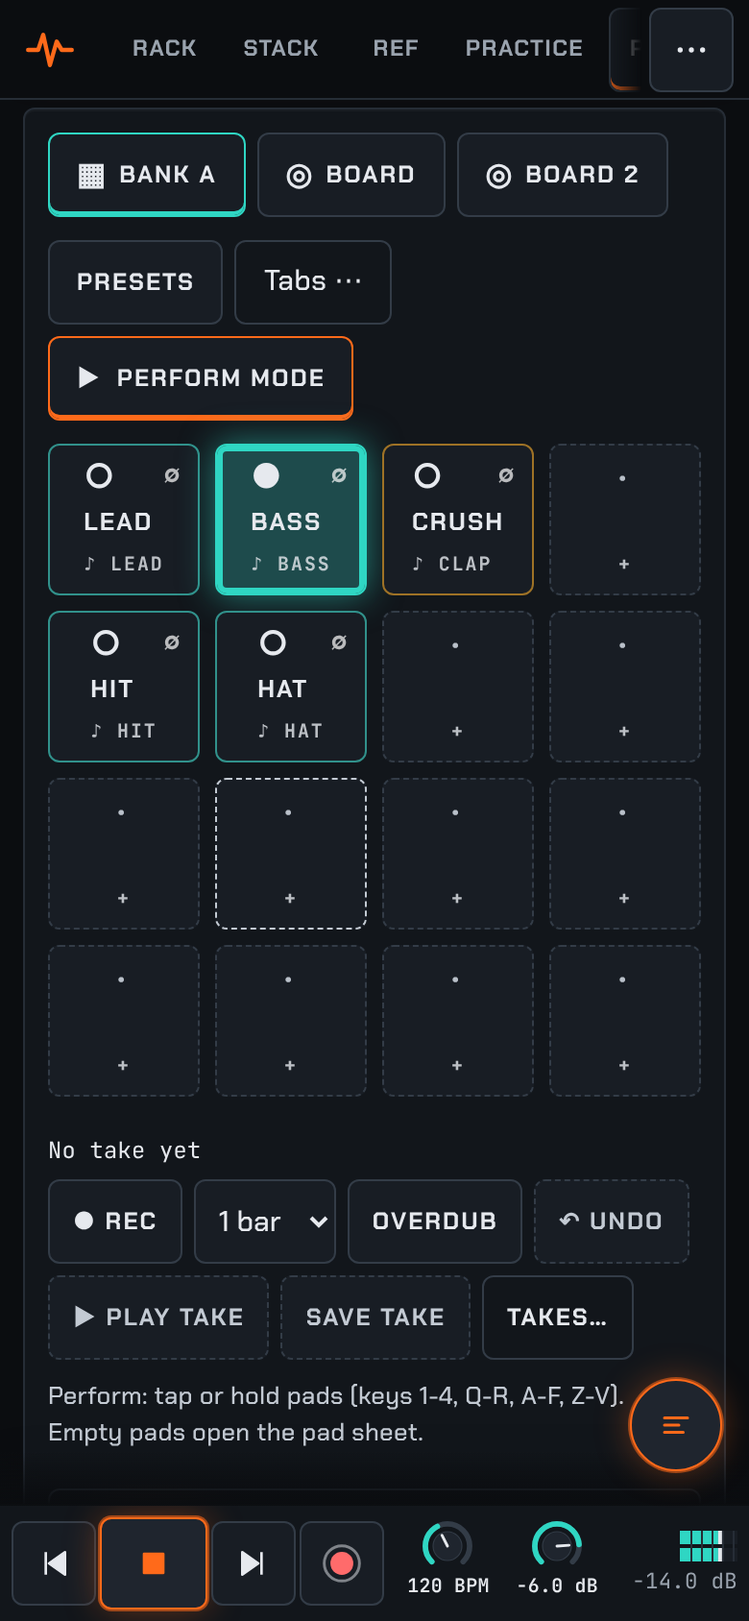
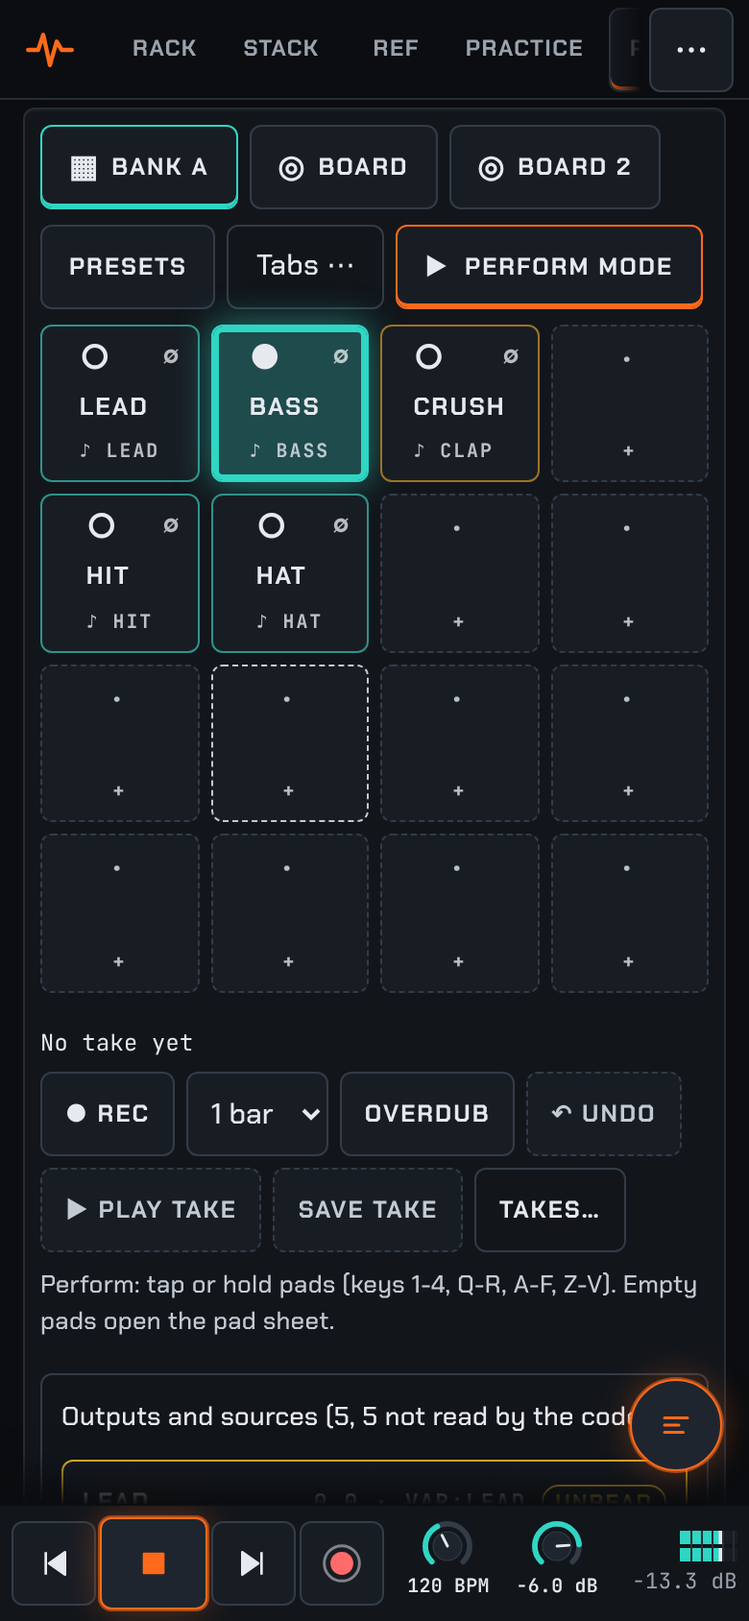
Perform: no toast over pads (status in the Presets button), pad-first phone layout, bare tap("x") reads its pad live (gain/mask/trigger), one tap description everywhere; tests perform_layout, perform_reader_audio, hooks/pad_reader. Refs #118 #114
Claude-Session: https://claude.ai/code/session_01Tu9yF1Ta77zUw7h4fxzQMi

diff --git a/site/perform.js b/site/perform.js
@@ -87,10 +87,16 @@ function toHooks(e) {
   if (e.op === 'bind' && e.args.slot) return { ...b, op: 'bind', args: [e.args.slot, e.args.hook] };
   if (e.op === 'unbind' && e.args.slot) return { ...b, op: 'unbind', args: [e.args.slot] };
   if (e.op === 'let' && e.args.value !== undefined) return { ...b, op: 'let', args: [e.args.name, e.args.value] };
+  if (e.op === 'tap' || e.op === 'tap-end') { // bare tap("x") readers: held windows by ref; shifted by the scheduler lookahead live, or the onset is already in the past
+    const lead = !playing() ? 0 : PAD_LEAD_S * padCps();
+    return { ...b, cycle: lead ? T.toFrac(frac(e.cycle) + lead) : e.cycle, op: 'pad:' + e.op, args: [e.target.ref] };
+  }
   return { ...b, op: 'pad:' + e.op, args: [] };
 }
+const PAD_LEAD_S = 0.3; const padCps = () => { try { return sc.engineState().scheduler.cps || 0.5; } catch (e) { return 0.5; } };
 function bridge(j = sc.perform && sc.perform.journal) {
   const H = sc.hooks; if (!H || !j) return;
+  H.padRefs = new Set(Object.values(M.banks).flatMap((b) => b.pads).filter((p) => p.target && p.target.kind === 'tap').map((p) => p.target.ref));
   const keep = H.journal.filter((e) => !e.pad); H.journal.length = 0; H.journal.push(...keep, ...j.map(toHooks));
   try { H.undef('__scPerformTouch'); } catch (e) { /* invalidates the runtime's journal cache */ }
 }
@@ -563,6 +569,8 @@ const allPresets = () => [...BUILTIN, ...PP.store.list()];
 const clone = (x) => JSON.parse(JSON.stringify(x));
 const codeTexts = () => [['rack', 'code'], ['stack', 'stackCode']].map(([view, id]) => ({ view, id, text: (document.getElementById(id) || {}).value || '' }));
 function upsertTab(kind, id, name) { const i = M.tabs.findIndex((t) => t.kind === kind && t.id === id); if (i >= 0) { M.tabs[i].name = name; return i; } M.tabs.push({ kind, id, name }); return M.tabs.length - 1; }
+const presetLabel = () => { const p = M.preset && allPresets().find((x) => x.id === M.preset); return p ? 'Presets: ' + p.title : 'Presets'; };
+const announce = (m) => { let r = document.getElementById('pfLive'); if (!r) { r = h('p', { id: 'pfLive', class: 'sr', role: 'status', 'aria-live': 'polite' }); document.body.append(r); } r.textContent = ''; setTimeout(() => { r.textContent = m; }, 30); };
 function applyPreset(p) {
   const bad = PP.validate(p); if (bad) { ui().toast('Preset: ' + bad, { kind: 'error' }); return false; }
   let first = null;
@@ -578,7 +586,7 @@ function applyPreset(p) {
   if (p.bank) { const id = 'pb-' + p.id; M.banks[id] = { id, rows: p.bank.rows, cols: p.bank.cols, ...(p.bank.scenes ? { scenes: p.bank.scenes } : {}), pads: clone(p.bank.pads || []) }; first = upsertTab('bank', id, p.title); }
   if (p.keys) M.keys = { ...p.keys }; else delete M.keys;
   M.takeover = p.takeover || 'pickup'; CM.pads.settings.takeover = M.takeover; if (p.perform != null) M.perform = !!p.perform; M.preset = p.id;
-  rebuildPads(); select(first, false); ui().toast(`Preset applied: ${p.title}`, { kind: 'ok' }); return true;
+  rebuildPads(); select(first, false); announce(`Preset applied: ${p.title}`); return true; // status lives in the Presets button + a live region: a toast sat over pad row 1 (#118)
 }
 function snapshot(title) { // the current configuration as a preset (first-class: same shape as the built-ins)
   const t = curTab(); const bank = t.kind === 'bank' ? M.banks[t.id] : M.banks[(M.tabs.find((x) => x.kind === 'bank') || {}).id];
@@ -677,7 +685,7 @@ function render() {
   strip.addEventListener('click', (e) => { const b = e.target.closest('[role=tab]'); if (b) select(+b.dataset.i); });
   strip.addEventListener('keydown', (e) => { const d = { ArrowRight: 1, ArrowLeft: -1 }[e.key]; if (e.key === 'Home' || e.key === 'End') { e.preventDefault(); select(e.key === 'Home' ? 0 : M.tabs.length - 1, true); return; } if (!d) return; e.preventDefault(); e.stopPropagation(); if (e.altKey) move(d); else { const i0 = +(e.target.closest('[role=tab]')?.dataset.i ?? M.active); select((i0 + d + M.tabs.length) % M.tabs.length, true); } });
   const bank = t.kind === 'bank' ? M.banks[t.id] : null;
-  const tools = h('div', { class: 'pf-tools' }, h('button', { type: 'button', class: 'pf-presets', id: 'pfPresetBtn', 'aria-haspopup': 'dialog', onclick: () => openPresets() }, 'Presets'), h('details', { class: 'pf-more' }, h('summary', {}, 'Tabs ⋯'), h('div', { class: 'pf-menu' },
+  const tools = h('div', { class: 'pf-tools' }, h('button', { type: 'button', class: 'pf-presets', id: 'pfPresetBtn', 'aria-haspopup': 'dialog', onclick: () => openPresets() }, presetLabel()), h('details', { class: 'pf-more' }, h('summary', {}, 'Tabs ⋯'), h('div', { class: 'pf-menu' },
     h('button', { type: 'button', class: 'ghost', onclick: () => addTab('bank') }, '+ Bank'), h('button', { type: 'button', class: 'ghost', onclick: () => addTab('board') }, '+ Board'),
     h('button', { type: 'button', class: 'ghost', onclick: renameTab }, 'Rename'), h('button', { type: 'button', class: 'ghost', onclick: dupTab }, 'Duplicate'),
     h('button', { type: 'button', class: 'ghost', 'aria-label': 'Move tab left', onclick: () => move(-1) }, '◀'), h('button', { type: 'button', class: 'ghost', 'aria-label': 'Move tab right', onclick: () => move(1) }, '▶'),

diff --git a/site/hooks-intellisense.js b/site/hooks-intellisense.js
@@ -3,13 +3,13 @@
    taps, vars, instances) and the component library. Re-registering the same id is the registry's cache-bust; done on every code/library change.
    Manifest source: window.strudelCraft.hooks.manifest() when the hooks runtime provides it, else model.parse() of the editor text. */
 const METHODS = [['use', '.use(slot)', 'Run the hook bound to a slot (bypass while unbound or closed).'], ['hook', '.hook(expr)', 'Apply a hook expression in place, always on: .hook("hygiene-pad") scopes the band of a pad (docs/RACK_STANDARD.md). Racks start with ["hook", "hygiene-<class>"].'], ['wrap', '.wrap(slot)', 'Wrap the pattern in the hook bound to a slot.'],
-  ['tap', '.tap(name, { export })', 'Publish this pattern as a named tap (memoised: readers share one computation). Inside a lane it is lane/name; { export: true } lets other lanes read it.'], ['wire', '.wire(control, ref, opts?)', 'Drive a control from a tap (ref "tap:facet") or from the audio of a named bus (ref "bus:name": bmod, cutoff = base + (signal + dc) x depthabs / 0.3; opts depth = multiple of the current value, depthabs = absolute, dc, subControl; a slow LFO is a sine with .freq(0.25), note("c1") is audio rate).'], ['ns', '.ns(name)', 'Namespace this track\'s slots and taps.'],
+  ['tap', '.tap(name, { export })', 'WRITE: publish this pattern as a named tap (memoised: readers share one computation); it never reads a Perform pad (that is the function tap(name)). Inside a lane it is lane/name; { export: true } lets other lanes read it.'], ['wire', '.wire(control, ref, opts?)', 'Drive a control from a tap (ref "tap:facet") or from the audio of a named bus (ref "bus:name": bmod, cutoff = base + (signal + dc) x depthabs / 0.3; opts depth = multiple of the current value, depthabs = absolute, dc, subControl; a slow LFO is a sine with .freq(0.25), note("c1") is audio rate).'], ['ns', '.ns(name)', 'Namespace this track\'s slots and taps.'],
   ['tags', '.tags(tag, ...)', 'Tag every event of this lane (same as chained .tag(t)); select them with tagged().'], ['fx', '.fx(fn)', 'On a tagged() selection: apply fn to the matching events of every lane.'],
   ['mute', '.mute(gate?)', 'On a tagged() selection: drop the matching events (inside the gate, e.g. "3b..5b").'], ['solo', '.solo(gate?)', 'On a tagged() selection: keep only matching events; several solo() selections add up.'],
   ['split', '.split(x => x.fx(), y => y.fx(), ..., { mix, pre })', 'Parallel effects on ONE render of everything before it (no re-triggered voices): each branch is x => x.effect(...) on a bus reader; branches may add effects, gain, pan, orbit and structure (struct = a rhythmic gate), not s, n, note, freq, bus, dry. Effects act on the lane sum, not per note. Options: mix [postgains], pre true keeps the dry path. A .layer costs one voice per note per branch; a split costs one reader per branch.'],
   ['merge', '.merge(m => m.fx())', 'After .split: sum the branches on one bus and apply m and everything written after it to that sum (a true sum bus). Without .merge, effects written after the split are added to each branch separately (W_LANE_POST_SPLIT for shape, crush, compressor ...).'],
   ['send', '.send(name, amount?)', 'Send this lane to the named bus (amount 0..1, default 1); play it with ret(name). Also tagged(sel).send(name, amount). A send with no return is W_BUS_NO_RETURN.']];
-const FUNCS = [['tap', 'tap(name)'], ['tagged', 'tagged(selector)'], ['ret', 'ret(name)'], ['lanes.closed', 'lanes.closed()'], ['lanes.open', 'lanes.open()'], ['hooks.def', 'hooks.def(name, manifest)'], ['hooks.undef', 'hooks.undef(name)'], ['hooks.bind', 'hooks.bind(slot, hook, gate?)'],
+const FUNCS = [['tap', 'tap(name)', 'READ a tap: tap("kick") / tap("kick:env"). The lane that published it with .tap("kick") is the source; with no publisher it reads the Perform pad "kick" (1 while held, no events idle). The writer is the method .tap(name), not this function.'], ['tagged', 'tagged(selector)'], ['ret', 'ret(name)'], ['lanes.closed', 'lanes.closed()'], ['lanes.open', 'lanes.open()'], ['hooks.def', 'hooks.def(name, manifest)'], ['hooks.undef', 'hooks.undef(name)'], ['hooks.bind', 'hooks.bind(slot, hook, gate?)'],
   ['hooks.replace', 'hooks.replace(slot, hook, when?)'], ['hooks.load', 'hooks.load(json)'], ['hooks.inst', 'hooks.inst(component, { as, args?, gate?, remap? })']];
 const GATES = [['"@17b"', 'at bar 17'], ['"<17b"', 'until bar 17'], ['"9b..17b"', 'bars 9 to 17']];
 const FACETS = ['onset', 'gate', 'env'];
@@ -19,7 +19,7 @@ const range = (p) => Object.entries(p || {}).map(([k, v]) => `${k}: ${v.min ?? '
 export function staticItems() {
   return [
     ...METHODS.map(([label, detail, info]) => ({ label, method: true, category: 'hooks', detail, info })),
-    ...FUNCS.map(([label, detail]) => ({ label, category: 'hooks', detail, info: detail })),
+    ...FUNCS.map(([label, detail, info]) => ({ label, category: 'hooks', detail, info: info || detail })),
     ...GATES.map(([label, info]) => ({ label: label.replace(/"/g, ''), string: true, category: 'gates', detail: 'gate', info, apply: label.replace(/"/g, '') })),
   ];
 }

diff --git a/site/engine/hooks.js b/site/engine/hooks.js
@@ -593,7 +593,7 @@ export function install(S, opts = {}) {
       const def = !P.sel && defOf(P.name);
       if (def?.params && facet in def.params) { const v = paramTimeline(P.name, facet, t, cx); return isPatternValue(v) ? first(valuePattern(v).queryArc(t, t, ctrl))?.value : v; }
       if (def?.taps && facet in def.taps) return first(makeTap(def.taps[facet], o).queryArc(t, t, ctrl))?.value ?? o.default;
-      const T = lookupTap(P, ctrl?._hookNs, ctrl?.id);
+      const T = lookupTap(P, ctrl?._hookNs, ctrl?.id) || (!P.sel && padSource(P.name));
       if (!T) { note('error', 'E_UNKNOWN_TAP', `no tap "${P.name}" for read "${key}"`); return o.default; }
       if (facet === 'gate') return T.queryArc(t, t, ctrl).length ? 1 : 0;
       const on = latestOnset(T, t, o.lookback ?? 4, ctrl);
@@ -609,6 +609,33 @@ export function install(S, opts = {}) {
       return v === undefined ? o.default : v;
     }, () => o.default);
   }
+  // ---------------- pad taps: a bare tap("x") with no publisher reads the Perform pad "x" (docs/PERFORM_PRESETS.md 3) ----------------
+  // Journal entries `pad:tap` [ref] on press and `pad:tap-end` [ref] on release give exact held windows: 1 while held, no haps while idle. A
+  // published tap of the same name wins; hooks.padRefs (a Set of pad refs the host shows) makes an idle pad a silent reader instead of E_UNKNOWN_TAP.
+  const PAD_OPEN = -1; let padHap = null; // PAD_OPEN end = still held: the hap's whole ends one cycle after the press or at the next whole cycle past the queried span (never unbounded: structure-from-left joins query the whole)
+  function padWindows(name) {
+    const ev = hooks.journal.filter((e) => (e.op === 'pad:tap' || e.op === 'pad:tap-end') && (e.args || [])[0] === name).map((e, i) => ({ e, i }));
+    ev.sort((a, b) => F(a.e.cycle).compare(F(b.e.cycle)) || a.i - b.i);
+    const w = []; let open = null;
+    for (const { e } of ev) { if (e.op === 'pad:tap') { if (open === null) open = F(e.cycle); } else if (open !== null) { w.push([open, F(e.cycle)]); open = null; } }
+    if (open !== null) w.push([open, PAD_OPEN]);
+    return w;
+  }
+  const padKnown = (name) => !!(hooks.padRefs && hooks.padRefs.has(name)) || hooks.journal.some((e) => (e.op === 'pad:tap' || e.op === 'pad:tap-end') && (e.args || [])[0] === name);
+  function padSource(name) {
+    if (!padKnown(name)) return null;
+    if (!padHap) { const h0 = reify(1).queryArc(0, 1)[0]; padHap = { Hap: h0.constructor, Span: h0.part.constructor }; }
+    return new Pattern((state) => {
+      const b = state.span.begin, e = state.span.end; const out = [];
+      for (const [s, t0] of padWindows(name)) {
+        const t = t0 === PAD_OPEN ? F(Math.max(+s.add(1), Math.ceil(+e) + 0)) : t0;
+        const zero = b.equals ? b.equals(e) : +b === +e;
+        if (zero ? !(s.lte(b) && b.lt(t)) : !(s.lt(e) && t.gt(b))) continue;
+        out.push(new padHap.Hap(new padHap.Span(s, t), new padHap.Span(s.gt(b) ? s : b, t.lt(e) ? t : e), 1, {}));
+      }
+      return out;
+    });
+  }
   function makeTap(ref, o = {}) {
     const P = parseRef(ref); const facet = P.facet || 'ev'; const gateN = o.gate != null ? normGate(o.gate) : null;
     if (facet !== 'ev' && facet !== 'onset') { P.facet = facet; return signal((t, ctrl) => evalCont(P, o, F(t), ctrl, gateN) ?? 0); }
@@ -617,7 +644,7 @@ export function install(S, opts = {}) {
       const run = (sp) => guard(key, () => {
         const st = state.setSpan(sp);
         if (!P.sel && facet === 'ev' && (eff().vars.has(P.name))) return assignPattern(eff().vars.get(P.name), 'var:' + P.name).query(st);
-        const T = lookupTap(P, ctrl?._hookNs, ctrl?.id);
+        const T = lookupTap(P, ctrl?._hookNs, ctrl?.id) || (!P.sel && padSource(P.name));
         if (!T) { note('error', 'E_UNKNOWN_TAP', `no tap "${P.name}" for read "${key}"`); return []; }
         const haps = T.query(st); return facet === 'onset' ? haps.map((h) => h.withValue(() => 1)) : haps;
       }, () => []);

diff --git a/site/style.css b/site/style.css
@@ -341,10 +341,12 @@ dialog.scm{width:min(420px,calc(100vw - 24px))}
 .scm-acts{display:flex;gap:8px;justify-content:flex-end}.scm-acts button{min-height:44px;min-width:88px}
 .scm-ok.danger{color:var(--bad);border-color:var(--bad)}
 .toasts{position:fixed;left:50%;transform:translateX(-50%);bottom:calc(var(--tp,120px) + 12px + env(safe-area-inset-bottom));z-index:60;display:grid;gap:8px;width:min(420px,calc(100vw - 24px));pointer-events:none}
-.toast{pointer-events:auto;display:flex;align-items:center;gap:8px;padding:10px 8px 10px 14px;background:var(--panel-3);border:1px solid var(--line-2);border-left:3px solid var(--sig-2);border-radius:var(--r2);font-size:.86rem;box-shadow:0 8px 24px rgba(0,0,0,.4);animation:toastIn .18s var(--ease,ease-out)}
+.toast{pointer-events:none;display:flex;align-items:center;gap:8px;padding:10px 8px 10px 14px;background:var(--panel-3);border:1px solid var(--line-2);border-left:3px solid var(--sig-2);border-radius:var(--r2);font-size:.86rem;box-shadow:0 8px 24px rgba(0,0,0,.4);animation:toastIn .18s var(--ease,ease-out)}
 .toast span{flex:1}.toast.error{border-left-color:var(--bad)}.toast.ok{border-left-color:var(--ok)}
 .toast-x{min-width:44px;min-height:44px;border:0;background:transparent;color:var(--dim);font-size:1.2rem}
 .toast.out{opacity:0;transition:opacity .2s}
+/* only toasts a person must act on take pointer events; status toasts never swallow a tap (#118) */
+.toast.error,.toast.sticky,.toast.act{pointer-events:auto}.toast:not(.error):not(.sticky):not(.act) .toast-x{display:none}
 @keyframes toastIn{from{opacity:0;transform:translateY(8px)}}
 @media (prefers-reduced-motion:reduce){.toast{animation:none}}
 .scm-ok:not(.danger){background:var(--sig-2);color:var(--sig-ink,#000);border-color:var(--sig-2)}

diff --git a/site/perform.css b/site/perform.css
@@ -128,3 +128,20 @@
 .pf-graph-glow{outline:2px solid var(--sig-2);outline-offset:2px}
 @media (prefers-reduced-motion:no-preference){.pf-graph-glow{transition:outline-color .2s}}
 .pp-pad .pp-ref{color:var(--text)}.pp-orph{position:absolute;top:6px;right:8px;font-size:.8rem;opacity:.7}
+
+/* pad-first phone layout (#118): in Perform the pad grid is the first thing under the header and fits on screen without scrolling.
+   The stage keeps its title/readouts/scope as a slim strip; the lanes canvas and the position/loop row (all still in the other views) fold away, and the
+   tabs + Presets + mode controls share compact rows. Outputs and sources, looper and hint sit below the grid. */
+@media (max-width:760px){
+  .deck[data-view="perform"] .stage .lanes,.deck[data-view="perform"] .stage .trange{display:none}
+  .deck[data-view="perform"] .stage .viz{height:36px}
+  .deck[data-view="perform"] .stage-head{padding:6px 12px 2px}
+  .deck[data-view="perform"] .stage-head h1{font-size:1rem;margin:0}
+  .deck[data-view="perform"] .stage{position:static}
+  .perform{padding:8px;gap:8px}
+  .perform>*,.pf-body{min-width:0}
+  .pf-presets{max-width:100%;overflow:hidden;text-overflow:ellipsis;white-space:nowrap}
+  .pf-tools{gap:6px}
+  .pf-body{gap:8px}
+  .pp-grid{gap:6px}.pp-row{gap:6px}
+}

diff --git a/site/ui.js b/site/ui.js
@@ -39,7 +39,7 @@
   let stack = null;
   function toast(message, { kind = 'info', ms, sticky = false, onClick = null } = {}) {
     if (!stack) { stack = h('div', { class: 'toasts', role: 'region', 'aria-label': 'Notifications' }); document.body.append(stack); }
-    const t = h('div', { class: 'toast ' + kind, role: kind === 'error' ? 'alert' : 'status' }, h('span', {}, String(message)), h('button', { type: 'button', class: 'toast-x', 'aria-label': 'Dismiss' }, '×'));
+    const t = h('div', { class: 'toast ' + kind + (sticky ? ' sticky' : '') + (onClick ? ' act' : ''), role: kind === 'error' ? 'alert' : 'status' }, h('span', {}, String(message)), h('button', { type: 'button', class: 'toast-x', 'aria-label': 'Dismiss' }, '×'));
     const kill = () => { t.classList.add('out'); setTimeout(() => t.remove(), 200); };
     t.querySelector('button').addEventListener('click', kill);
     if (onClick) { const sp = t.querySelector('span'); const b = h('button', { type: 'button', class: 'toast-act' }, String(message)); sp.replaceWith(b); b.addEventListener('click', () => { onClick(); kill(); }); }

diff --git a/docs/PERFORM_PRESETS.md b/docs/PERFORM_PRESETS.md
@@ -24,7 +24,7 @@ API: `strudelCraft.perform.presets.{list, apply(id|preset), save(title), exportJ
 
 ## 3. Outputs and sources
 Every pad and control of the open tab is an output row under `Outputs and sources`. Tap a row to reveal: the code line it reads or writes (pad: first match of `tap('x')`, `hooks.bind(slot, 'x')`, `hooks.let('x')`, `hooks.inst('x')`, else any quoted `'x'`; control: its site path), a one-line explanation, `Go to code` (the deliberate jump, #107) and `Show in graph` (the graph node with that label glows; the view switches to Graph when it is not open). Pressing a pad or revealing a row never scrolls the editor.
-- **The 2-hit output.** A tap pad (`kind: tap`, mode gate) is one hit = two journal entries: `tap` on press and `tap-end` on release, written to `hooks.journal` as `pad:tap`, `pad:tap-end`. The hooks runtime journals but does not apply them, and the editor holds no `tap("x")` unless you wrote one, so a tap pad nothing reads shows no syntax in Perform and did nothing audible while the graph still showed the program's drum nodes. Such pads are marked `∅` / `unread` and counted in the Outputs summary (no toast: a toast sat over the pad rows on a phone and swallowed taps). A reader is a bare `tap("x")` / `wire(..., "x")` call; the lane writer `.tap("kick", {export: true})` of night-phonk-demo publishes the lane and does not read pad presses. Give a pad a reader with `tap("x")` or bounce a take to code (`hooks.publish('x', ...)`); until then section 4 applies.
+- **The 2-hit output and the pad reader (#114, #118).** A tap pad (`kind: tap`, mode gate) is one hit = two journal entries: `tap` on press and `tap-end` on release, written to `hooks.journal` as `pad:tap` and `pad:tap-end` with the pad ref in `args[0]`. **Reading it:** a bare `tap("x")` (the function, not the method) whose name no `.tap("x")` publishes reads the pad `x` live: a hap with value `1` from the press to the release (still held = open window), no haps while idle. So `s("bd*4").mask(tap("kick"))`, `.gain(tap("kick"))` and `.struct(tap("kick"))` follow the hold, `tap("kick").s("bd")` sounds once per press, and `tap("kick:gate")` is 1/0. A published `.tap("kick", ...)` of the same name wins over the pad (the pad is then unread: night-phonk-demo). The scheduler has already queried the next ~0.3 s when a pad is pressed, so the journal cycle of a live press is shifted by 0.3 s (`PAD_LEAD_S`) and the trigger form sounds that much after the press; renders replay the journal exactly. **Not a reader:** the method `.tap("x", {export})` is the lane writer, it publishes the lane and never reads a pad. A pad nothing reads is marked `∅` / `unread` and counted in the Outputs summary (no toast: a toast sat over the pad rows on a phone and swallowed taps), and plays its audition voice (section 4). Test: `STRUDEL_CRAFT=$PWD node tests/hooks/pad_reader.mjs`, `node tests/site/perform_reader_audio.mjs` (idle 0, held > 0.01, released 0 for the gain, mask and trigger forms).
 
 ## 4. Audition voices (#116)
 A pad that nothing reads (the orphan rule of section 3: tap pads without a bare `tap("x")`, hook/var pads without a source line) plays a built-in **audition voice** the moment it is pressed, and is journaled exactly as before; a pad the program reads stays silent here (the reader wins, nothing existing changes).
@@ -33,3 +33,6 @@ A pad that nothing reads (the orphan rule of section 3: tap pads without a bare 
 - Pointer-down triggers (no scroll, no focus, #107 behaviour); the audio context is resumed inside that gesture and the Strudel engine is pre-loaded when a bank with such pads is shown, so the first tap sounds (a tap before the engine is up is queued, dropped after 4 s). The master bus is un-muted if Stop had muted it.
 - API: `strudelCraft.perform.audition` = `{ enabled, voices(), voiceFor(pad, index), player }` (`player.count/lat/error/ready`). Source: `site/perform-audition.js`.
 - Test: `node tests/site/perform_pads_audio.mjs` (touch taps at 390 px on the default demo and night-phonk-demo, every pad of Beatpad and Minimal must reach > 0.01 on the master analyser; cold first tap; a read pad stays silent). Mixer and Macro are control boards, they have no pads.
+
+## 5. Layout and status (#118)
+Applying a preset never toasts: the status is the Presets button label (`Presets: Beatpad 4x4`) plus a polite live region. Status toasts (`ok`, `info`) have `pointer-events:none` everywhere on the site; only errors, sticky and actionable toasts take pointer events. At 760 px and below the Perform view is pad-first: the stage keeps its title, readouts and a 36 px scope, the lanes canvas and the position/loop row fold away (they stay in the other views), so the 4x4 Beatpad (and Minimal) are fully above the transport at 390x844 and 360x740 with 44 px+ pads and no scrolling; Outputs and sources, the looper and the hint sit below the grid. Test: `node tests/site/perform_layout.mjs [--shots DIR]` (elementFromPoint on every pad centre right after each preset apply, no scroll).

diff --git a/site/README.md b/site/README.md
@@ -476,6 +476,7 @@ Standalone ES module, no DOM, shared with the CLI. `install(S, hooks, { outer })
 the Strudel `Pattern` and the hooks object) adds `Pattern.prototype.tags` and the globals `tagged` and `lanes`, refusing over an existing name (`E_NAME_COLLISION`).
 - Taps (in `hooks.js`): every tap has a 32-span query cache keyed by span and controls signature; cleared on registry change, a republished tap and `hooks.invalidate()`
   (the controls engine calls it from `set`, lane and `load` through its `onChange`). In a labelled lane `.tap("x")` is `lane/x`; `.tap("x", { export: true })` lets other lanes read it;
+- Pad reader (#118): a bare `tap("x")` with no `.tap("x")` publisher reads the Perform pad `x` (`pad:tap` / `pad:tap-end` journal entries, value 1 while held, nothing idle; `hooks.padRefs` set by perform.js); `.tap("x")` is only the writer. Perform on phones is pad-first (stage folds to a strip, grid above the transport at 390x844 and 360x740) and preset apply no longer toasts. Tests `tests/hooks/pad_reader.mjs`, `tests/site/perform_reader_audio.mjs`, `tests/site/perform_layout.mjs`; docs/PERFORM_PRESETS.md sections 3 and 5.
   an unexported cross-lane read is `W_LANE_IMPLICIT_EXPORT` (open mode) or `E_LANE_PRIVATE` after `lanes.closed()`.
 - `.tags("a", "b")` = `.tag("a").tag("b")`. `tagged("drums & !wet")` selects haps by tag, `#lane`, `& | ! ( ) *`; ops `.fx(f) .gain(g) .orbit(n) .mute(gate) .solo(gate)`, applied in the
   outermost query wrapper before the control maps; selections serialise in `hooks.toJSON()` (`selections[]`) and live toggles (`lanes.set(id, op, on, at)`) journal as `sel` entries.

diff --git a/docs/HOOKS_SYNTAX.md b/docs/HOOKS_SYNTAX.md
@@ -220,6 +220,8 @@ markers behave as `"else"`.
 | `env` | continuous | attack/release envelope in 0..1 retriggered at each onset: opts `{ a: 0, r: 0.25 }` in cycles (suffix `"s"` for seconds), `curve: "lin" \| "exp"` |
 | any control name (`note`, `cutoff`, `gain`, ...) | continuous | sample-and-hold of that field from the most recent onset; before the first one: `read-opts.default` |
 
+**Pad reader (#118).** A bare `tap("x")` with no publisher of `x` reads the Perform pad `x` (host journal entries `pad:tap` / `pad:tap-end`, `args[0]` = the ref; `hooks.padRefs` lists the pads the host shows, so an idle pad is a silent reader instead of `E_UNKNOWN_TAP`): one hap, value `1`, from press to release (still held: open window of at least one cycle), none while idle; facets `gate`, `onset`, `env` work as for any tap. A published tap of the same name wins. `.tap("x")` the method only publishes. Detail: docs/PERFORM_PRESETS.md section 3.
+
 Continuous facets look back at most `lookback` cycles (default 4) for the governing onset; this bounds query cost and keeps
 random access exact. `read-opts`: `{ gate, default, lookback, a, r, curve }`. A **gated read** (`tap("kick:env", { gate: "<17b" })`) is
 open only inside the gate; outside it yields `default` (continuous facets, default `0`) or silence (discrete facets).
